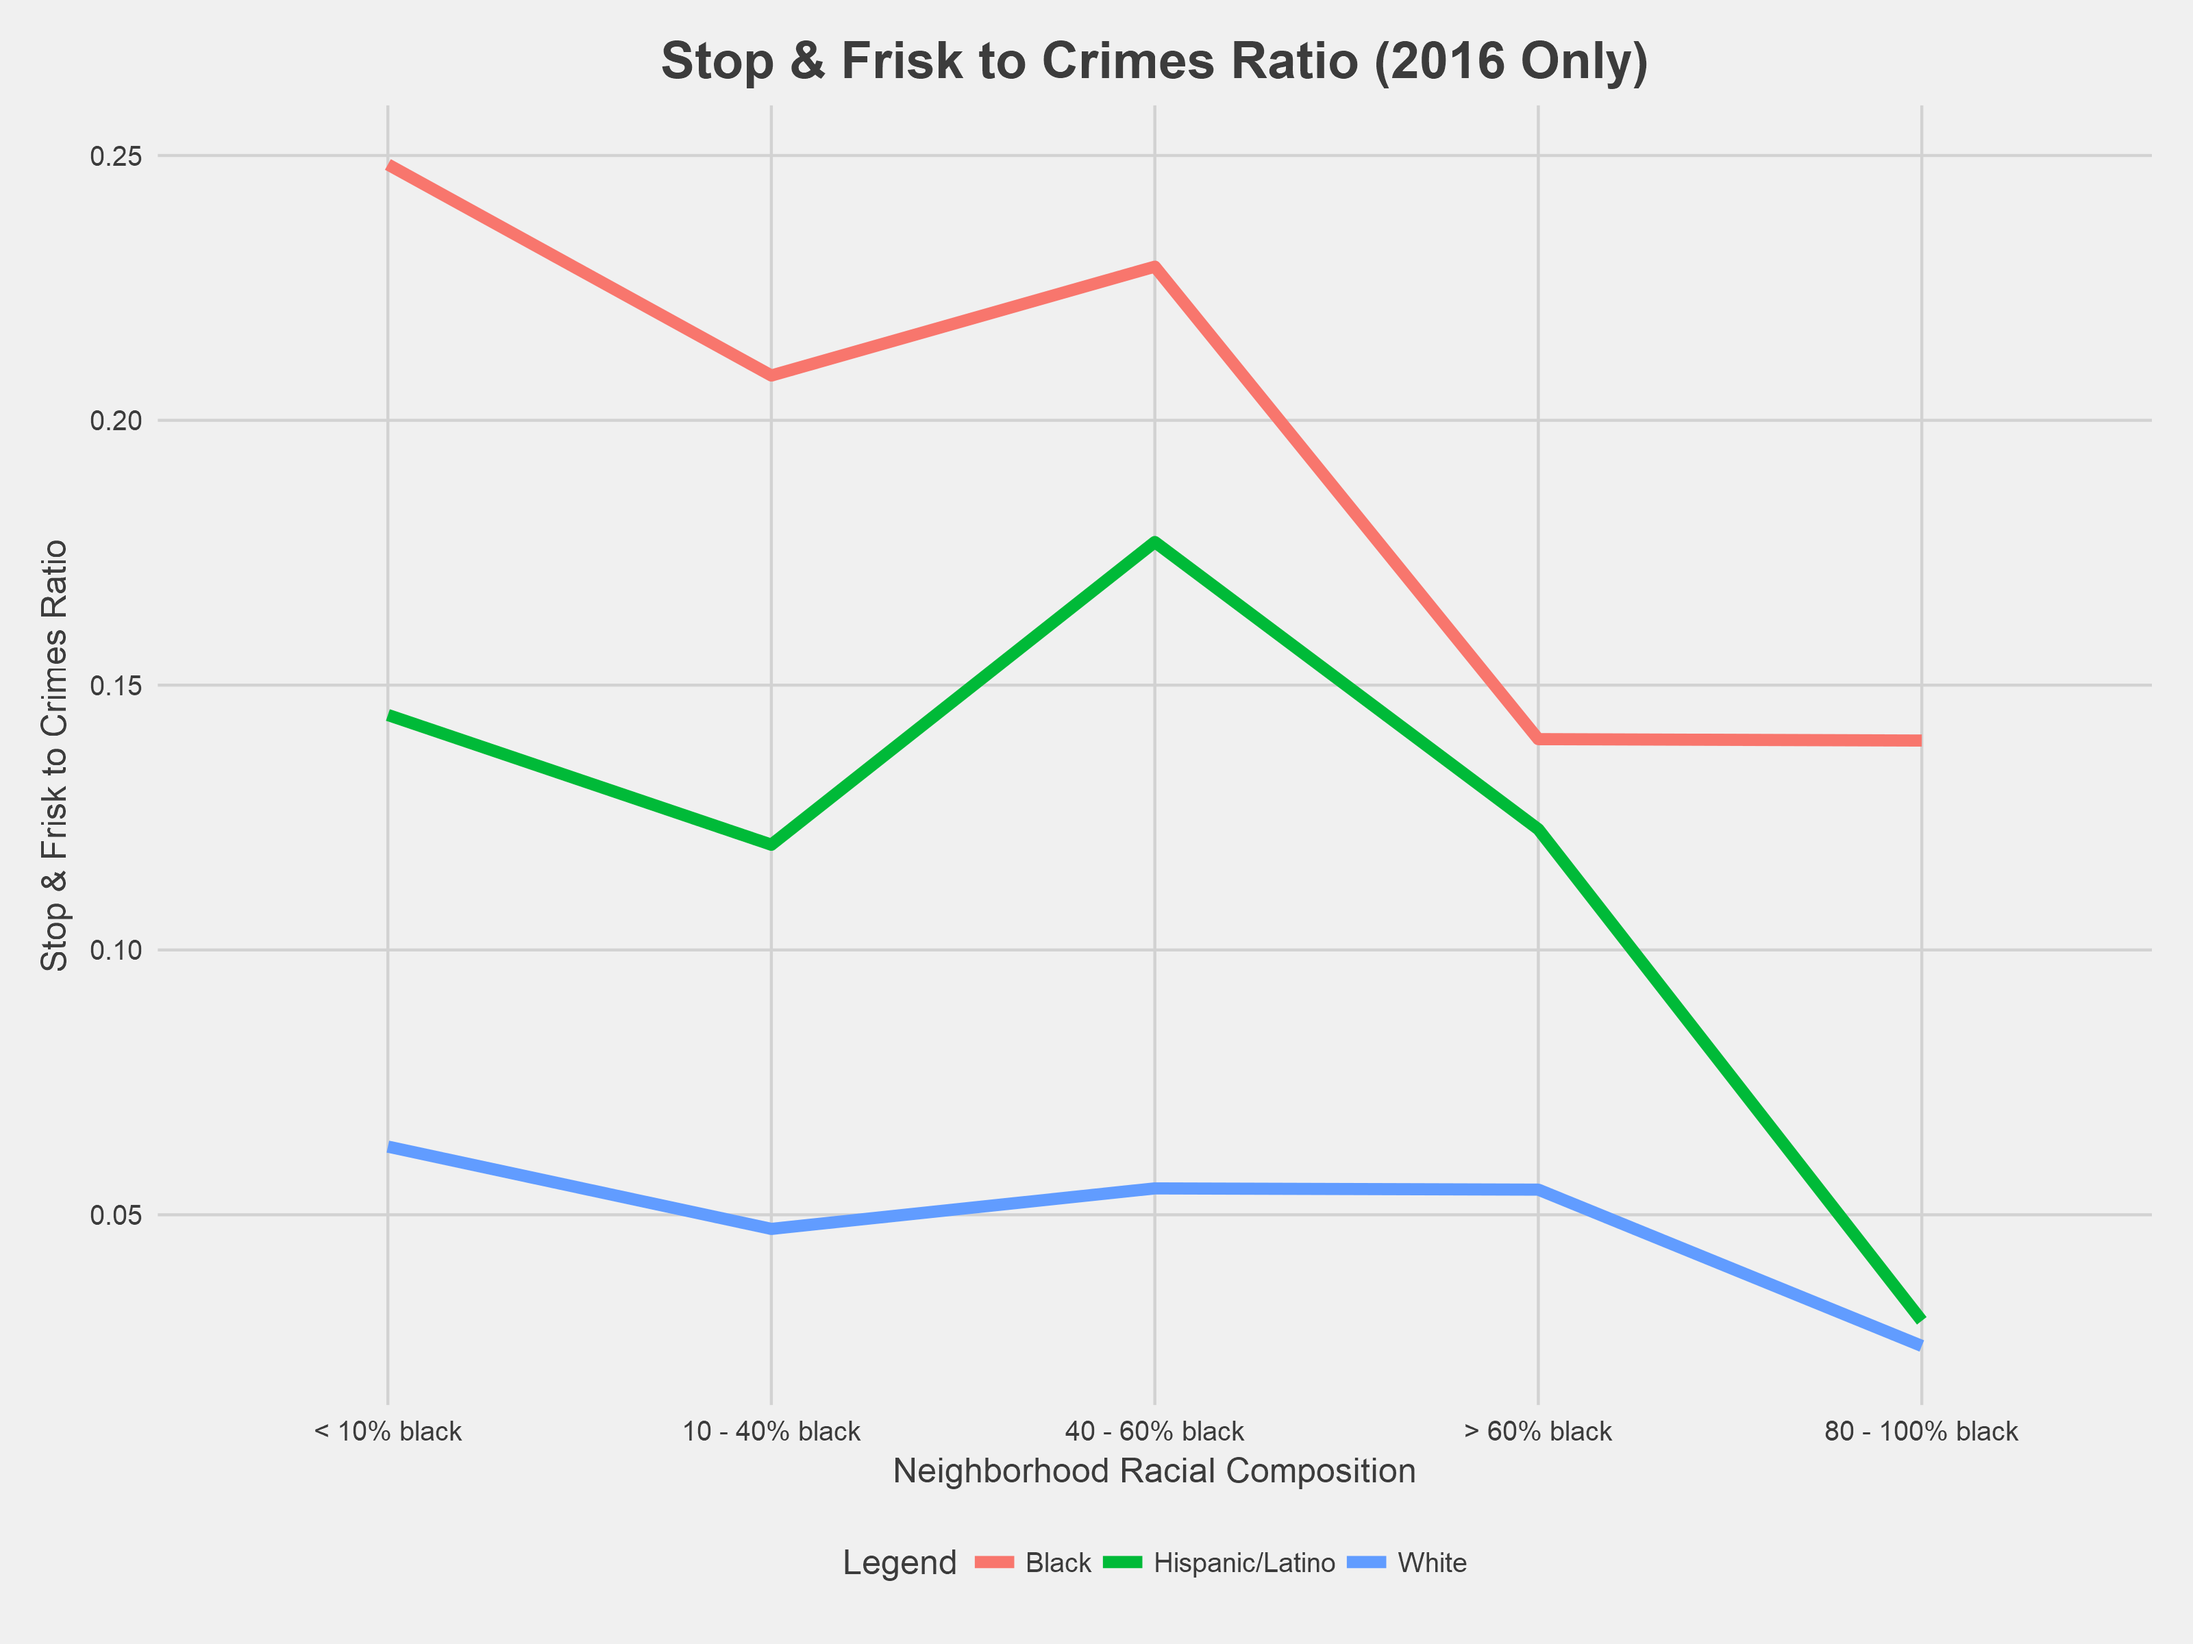
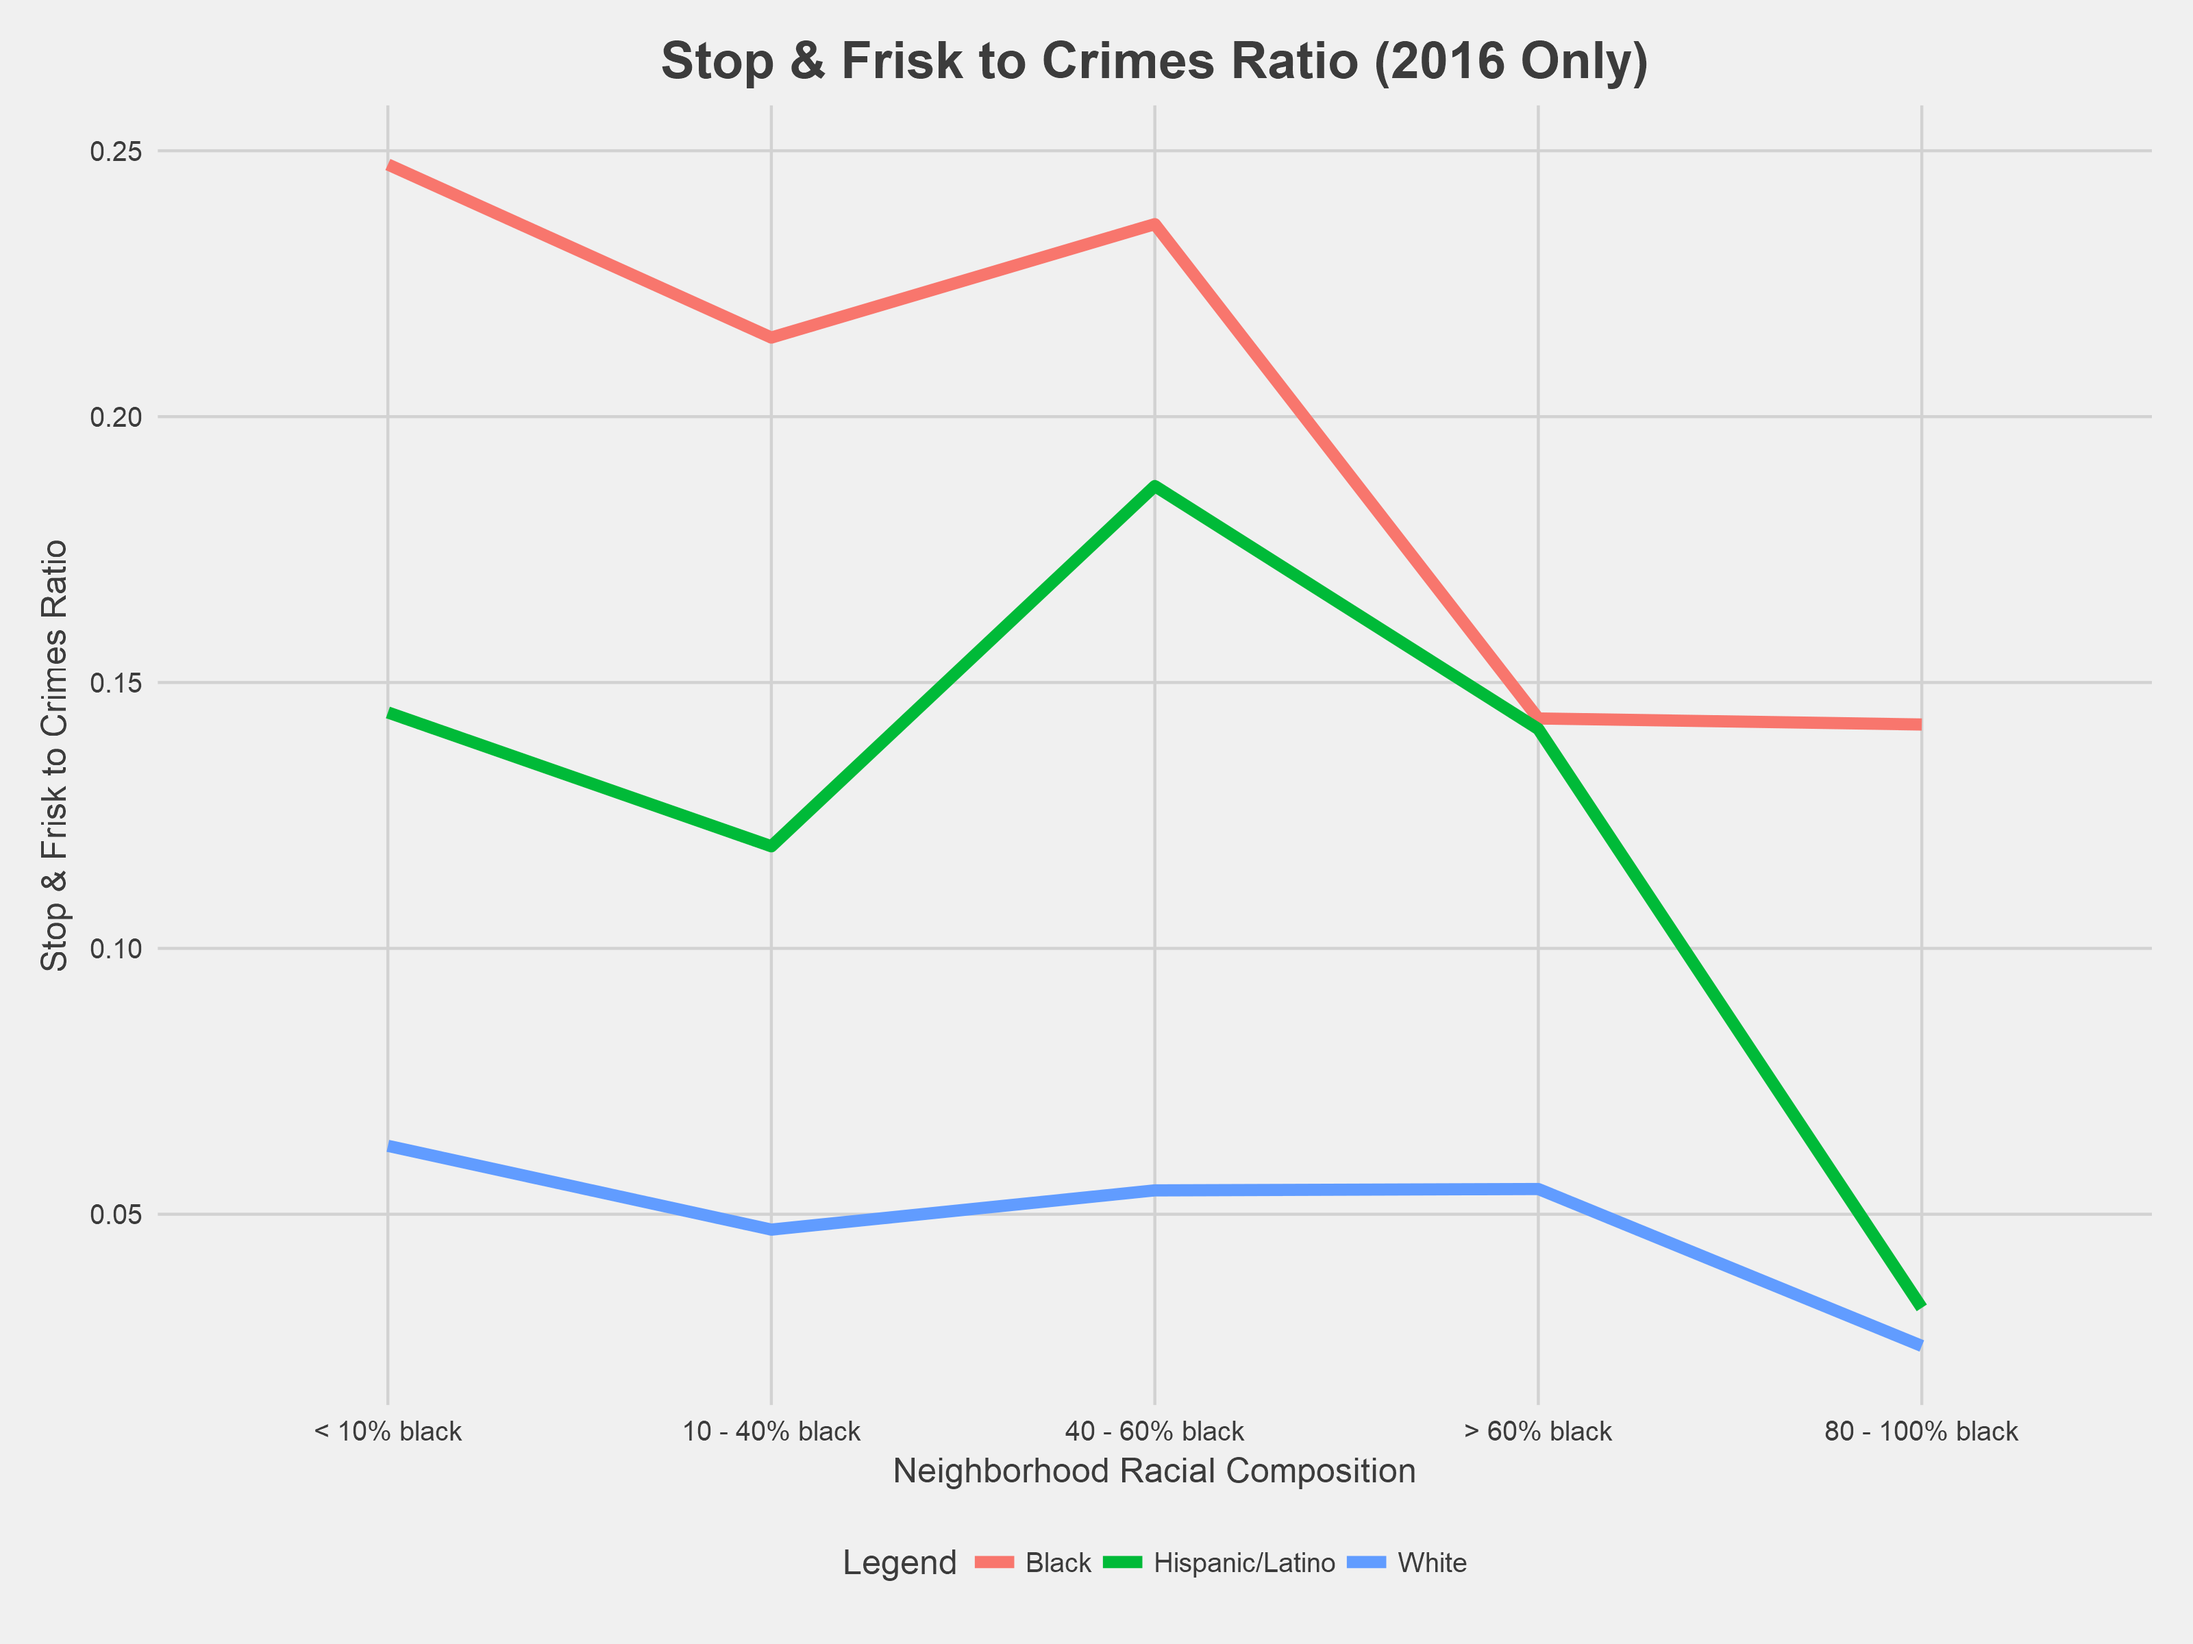
Stop & Frisk: General code & analysis updates

diff --git a/03_stop_frisk/images/poisson.htm b/03_stop_frisk/images/poisson.htm
@@ -2,26 +2,26 @@
 <table style="text-align:center"><tr><td colspan="2" style="border-bottom: 1px solid black"></td></tr><tr><td style="text-align:left"></td><td><em>Dependent variable:</em></td></tr>
 <tr><td></td><td colspan="1" style="border-bottom: 1px solid black"></td></tr>
 <tr><td style="text-align:left"></td><td>stop_frisks</td></tr>
-<tr><td colspan="2" style="border-bottom: 1px solid black"></td></tr><tr><td style="text-align:left">race_ethnBlack</td><td>1.280<sup>***</sup></td></tr>
-<tr><td style="text-align:left"></td><td>(0.189)</td></tr>
+<tr><td colspan="2" style="border-bottom: 1px solid black"></td></tr><tr><td style="text-align:left">race_ethnBlack</td><td>1.296<sup>***</sup></td></tr>
+<tr><td style="text-align:left"></td><td>(0.187)</td></tr>
 <tr><td style="text-align:left"></td><td></td></tr>
-<tr><td style="text-align:left">race_ethnHispanic/Latino</td><td>1.188<sup>***</sup></td></tr>
-<tr><td style="text-align:left"></td><td>(0.232)</td></tr>
+<tr><td style="text-align:left">race_ethnHispanic/Latino</td><td>1.212<sup>***</sup></td></tr>
+<tr><td style="text-align:left"></td><td>(0.228)</td></tr>
 <tr><td style="text-align:left"></td><td></td></tr>
-<tr><td style="text-align:left">bins(10,40]</td><td>-0.149</td></tr>
-<tr><td style="text-align:left"></td><td>(0.157)</td></tr>
+<tr><td style="text-align:left">bins(10,40]</td><td>-0.133</td></tr>
+<tr><td style="text-align:left"></td><td>(0.156)</td></tr>
 <tr><td style="text-align:left"></td><td></td></tr>
-<tr><td style="text-align:left">bins(40,60]</td><td>-0.143</td></tr>
-<tr><td style="text-align:left"></td><td>(0.178)</td></tr>
+<tr><td style="text-align:left">bins(40,60]</td><td>-0.111</td></tr>
+<tr><td style="text-align:left"></td><td>(0.175)</td></tr>
 <tr><td style="text-align:left"></td><td></td></tr>
-<tr><td style="text-align:left">bins(60,80]</td><td>-0.446<sup>**</sup></td></tr>
-<tr><td style="text-align:left"></td><td>(0.169)</td></tr>
+<tr><td style="text-align:left">bins(60,80]</td><td>-0.405<sup>**</sup></td></tr>
+<tr><td style="text-align:left"></td><td>(0.167)</td></tr>
 <tr><td style="text-align:left"></td><td></td></tr>
-<tr><td style="text-align:left">bins(80,100]</td><td>-0.595<sup>***</sup></td></tr>
-<tr><td style="text-align:left"></td><td>(0.154)</td></tr>
+<tr><td style="text-align:left">bins(80,100]</td><td>-0.557<sup>***</sup></td></tr>
+<tr><td style="text-align:left"></td><td>(0.153)</td></tr>
 <tr><td style="text-align:left"></td><td></td></tr>
-<tr><td style="text-align:left">Constant</td><td>-2.669<sup>***</sup></td></tr>
-<tr><td style="text-align:left"></td><td>(0.207)</td></tr>
+<tr><td style="text-align:left">Constant</td><td>-2.687<sup>***</sup></td></tr>
+<tr><td style="text-align:left"></td><td>(0.206)</td></tr>
 <tr><td style="text-align:left"></td><td></td></tr>
 <tr><td colspan="2" style="border-bottom: 1px solid black"></td></tr><tr><td style="text-align:left">Observations</td><td>89</td></tr>
 <tr><td colspan="2" style="border-bottom: 1px solid black"></td></tr><tr><td style="text-align:left"><em>Note:</em></td><td style="text-align:right"><sup>*</sup>p<0.1; <sup>**</sup>p<0.05; <sup>***</sup>p<0.01</td></tr>

diff --git a/03_stop_frisk/images/models_w_race.htm b/03_stop_frisk/images/models_w_race.htm
@@ -1,0 +1,27 @@
+
+<table style="text-align:center"><tr><td colspan="3" style="border-bottom: 1px solid black"></td></tr><tr><td style="text-align:left"></td><td colspan="2"><em>Dependent variable:</em></td></tr>
+<tr><td></td><td colspan="2" style="border-bottom: 1px solid black"></td></tr>
+<tr><td style="text-align:left"></td><td colspan="2">avg_sf</td></tr>
+<tr><td style="text-align:left"></td><td>(1)</td><td>(2)</td></tr>
+<tr><td colspan="3" style="border-bottom: 1px solid black"></td></tr><tr><td style="text-align:left">avg_prev_yr_crime</td><td>0.095<sup>***</sup></td><td>0.102<sup>***</sup></td></tr>
+<tr><td style="text-align:left"></td><td>(0.008)</td><td>(0.007)</td></tr>
+<tr><td style="text-align:left"></td><td></td><td></td></tr>
+<tr><td style="text-align:left">coll_bins(40,60]</td><td></td><td>-5.778</td></tr>
+<tr><td style="text-align:left"></td><td></td><td>(15.275)</td></tr>
+<tr><td style="text-align:left"></td><td></td><td></td></tr>
+<tr><td style="text-align:left">coll_bins(60,90]</td><td></td><td>20.212</td></tr>
+<tr><td style="text-align:left"></td><td></td><td>(12.689)</td></tr>
+<tr><td style="text-align:left"></td><td></td><td></td></tr>
+<tr><td style="text-align:left">coll_bins(90,100]</td><td></td><td>46.732<sup>***</sup></td></tr>
+<tr><td style="text-align:left"></td><td></td><td>(11.046)</td></tr>
+<tr><td style="text-align:left"></td><td></td><td></td></tr>
+<tr><td style="text-align:left">Constant</td><td>0.419</td><td>-26.181<sup>**</sup></td></tr>
+<tr><td style="text-align:left"></td><td>(9.013)</td><td>(9.596)</td></tr>
+<tr><td style="text-align:left"></td><td></td><td></td></tr>
+<tr><td colspan="3" style="border-bottom: 1px solid black"></td></tr><tr><td style="text-align:left">Observations</td><td>39</td><td>39</td></tr>
+<tr><td style="text-align:left">R<sup>2</sup></td><td>0.803</td><td>0.885</td></tr>
+<tr><td style="text-align:left">Adjusted R<sup>2</sup></td><td>0.798</td><td>0.871</td></tr>
+<tr><td style="text-align:left">Residual Std. Error</td><td>33.425 (df = 37)</td><td>26.643 (df = 34)</td></tr>
+<tr><td style="text-align:left">F Statistic</td><td>150.666<sup>***</sup> (df = 1; 37)</td><td>65.342<sup>***</sup> (df = 4; 34)</td></tr>
+<tr><td colspan="3" style="border-bottom: 1px solid black"></td></tr><tr><td style="text-align:left"><em>Note:</em></td><td colspan="2" style="text-align:right"><sup>*</sup>p<0.1; <sup>**</sup>p<0.05; <sup>***</sup>p<0.01</td></tr>
+</table>

diff --git a/03_stop_frisk/images/models.htm b/03_stop_frisk/images/models.htm
@@ -2,16 +2,16 @@
 <table style="text-align:center"><tr><td colspan="2" style="border-bottom: 1px solid black"></td></tr><tr><td style="text-align:left"></td><td><em>Dependent variable:</em></td></tr>
 <tr><td></td><td colspan="1" style="border-bottom: 1px solid black"></td></tr>
 <tr><td style="text-align:left"></td><td>avg_sf</td></tr>
-<tr><td colspan="2" style="border-bottom: 1px solid black"></td></tr><tr><td style="text-align:left">avg_prev_yr_crime</td><td>0.094<sup>***</sup></td></tr>
-<tr><td style="text-align:left"></td><td>(0.007)</td></tr>
+<tr><td colspan="2" style="border-bottom: 1px solid black"></td></tr><tr><td style="text-align:left">avg_prev_yr_crime</td><td>0.095<sup>***</sup></td></tr>
+<tr><td style="text-align:left"></td><td>(0.008)</td></tr>
 <tr><td style="text-align:left"></td><td></td></tr>
-<tr><td style="text-align:left">Constant</td><td>-0.469</td></tr>
-<tr><td style="text-align:left"></td><td>(8.602)</td></tr>
+<tr><td style="text-align:left">Constant</td><td>0.419</td></tr>
+<tr><td style="text-align:left"></td><td>(9.013)</td></tr>
 <tr><td style="text-align:left"></td><td></td></tr>
 <tr><td colspan="2" style="border-bottom: 1px solid black"></td></tr><tr><td style="text-align:left">Observations</td><td>39</td></tr>
-<tr><td style="text-align:left">R<sup>2</sup></td><td>0.814</td></tr>
-<tr><td style="text-align:left">Adjusted R<sup>2</sup></td><td>0.809</td></tr>
-<tr><td style="text-align:left">Residual Std. Error</td><td>31.901 (df = 37)</td></tr>
-<tr><td style="text-align:left">F Statistic</td><td>161.745<sup>***</sup> (df = 1; 37)</td></tr>
+<tr><td style="text-align:left">R<sup>2</sup></td><td>0.803</td></tr>
+<tr><td style="text-align:left">Adjusted R<sup>2</sup></td><td>0.798</td></tr>
+<tr><td style="text-align:left">Residual Std. Error</td><td>33.425 (df = 37)</td></tr>
+<tr><td style="text-align:left">F Statistic</td><td>150.666<sup>***</sup> (df = 1; 37)</td></tr>
 <tr><td colspan="2" style="border-bottom: 1px solid black"></td></tr><tr><td style="text-align:left"><em>Note:</em></td><td style="text-align:right"><sup>*</sup>p<0.1; <sup>**</sup>p<0.05; <sup>***</sup>p<0.01</td></tr>
 </table>
